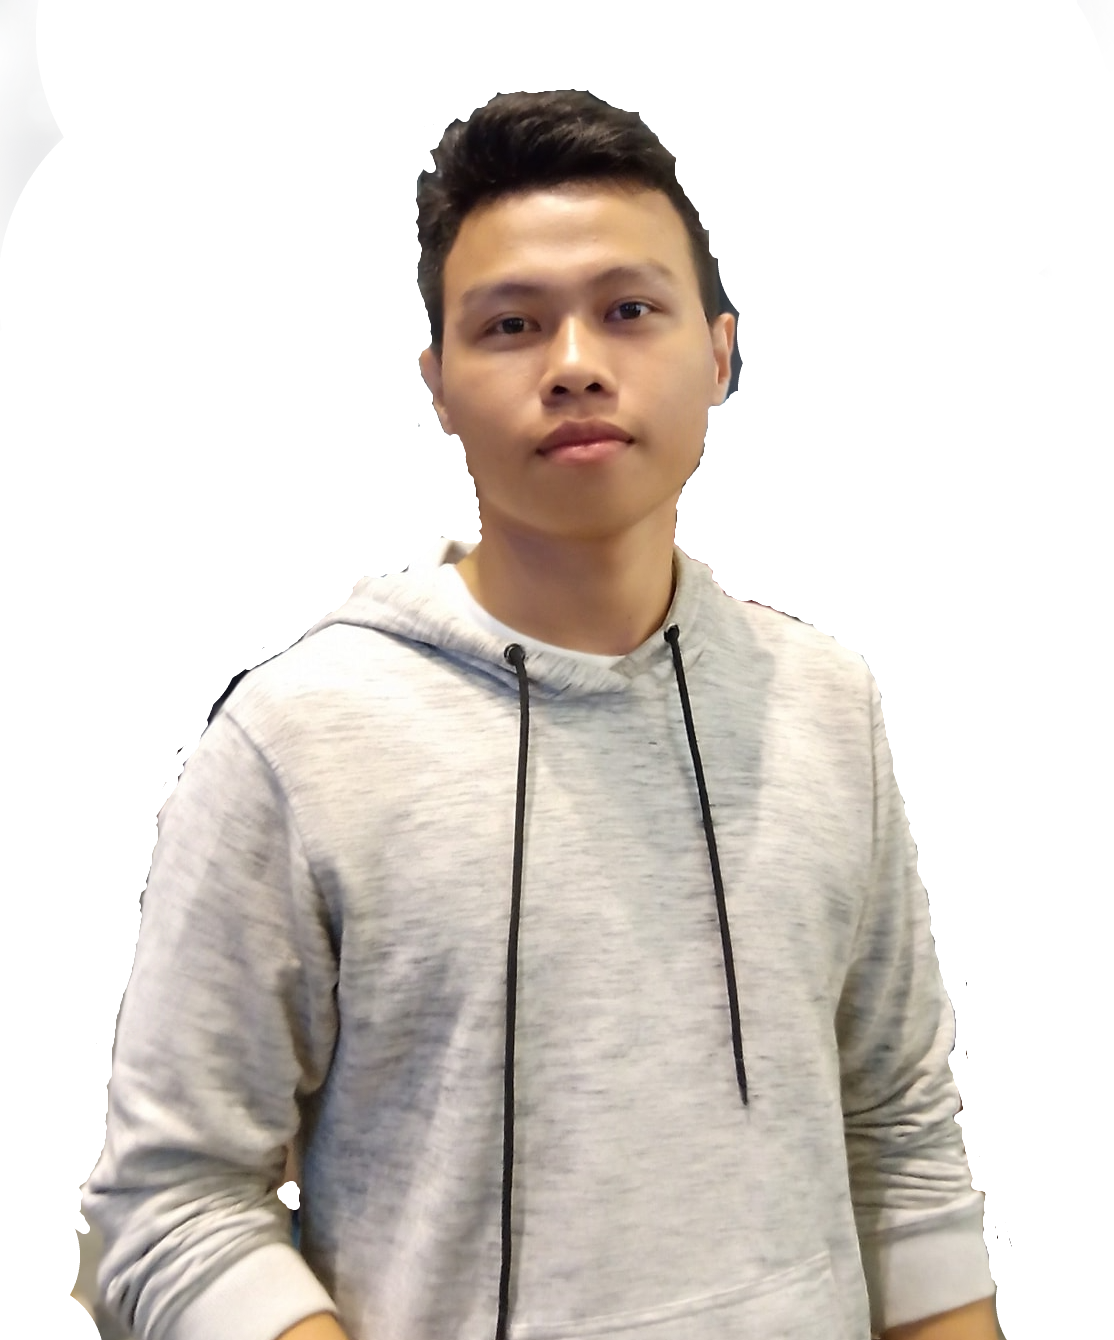
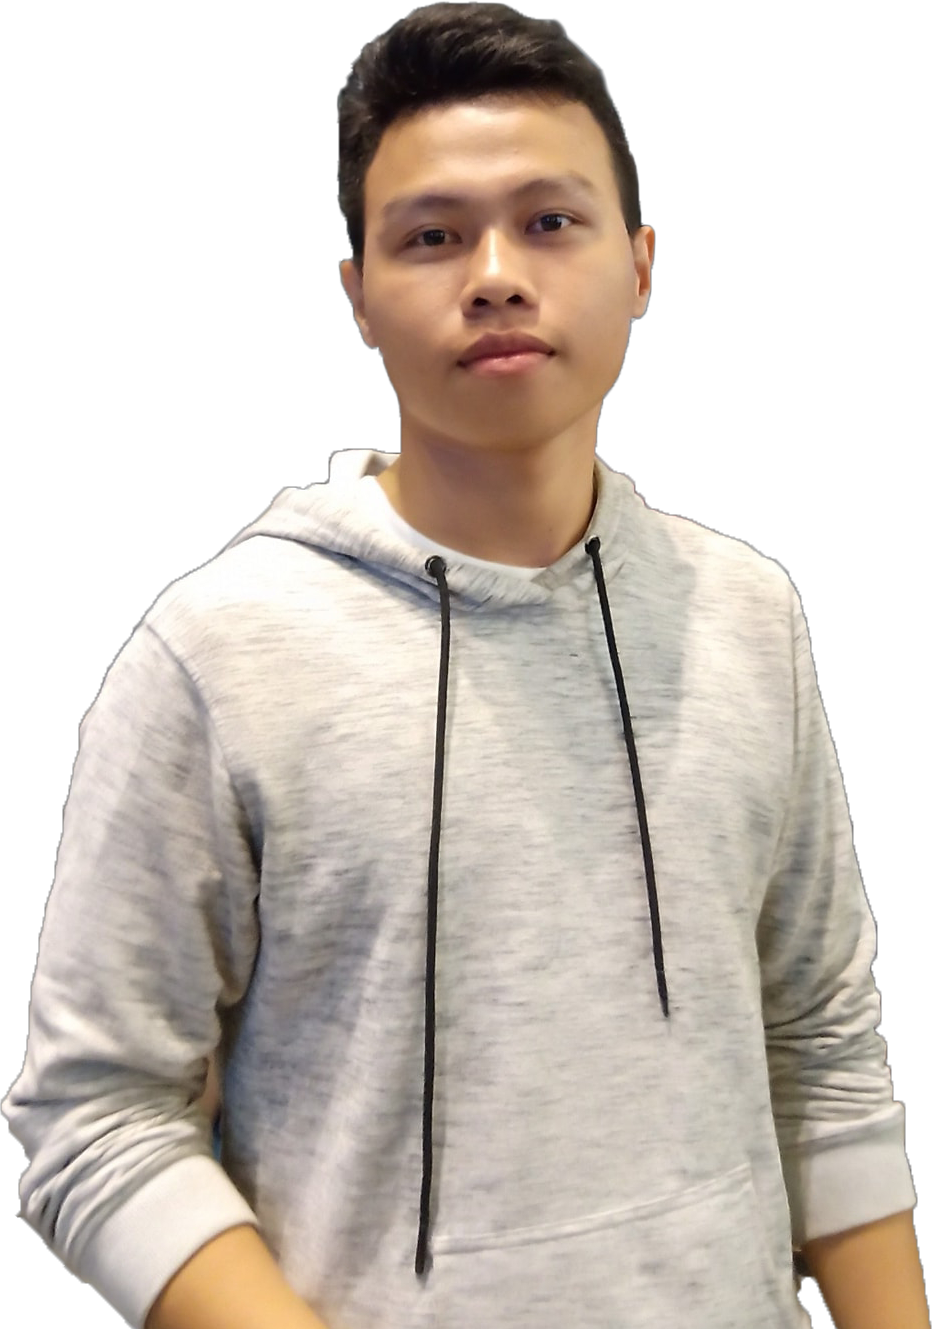
Update image welcome and Readme file.

diff --git a/README.md b/README.md
@@ -3,7 +3,7 @@
 This project was generated with [Angular CLI](https://github.com/angular/angular-cli) version 13.3.3.
 
 ## Development server
-
+Cái này để dành test.
 Run `ng serve` for a dev server. Navigate to `http://localhost:4200/`. The application will automatically reload if you change any of the source files.
 
 ## Code scaffolding
@@ -14,6 +14,11 @@ Run `ng generate component component-name` to generate a new component. You can 
 
 Run `ng build` to build the project. The build artifacts will be stored in the `dist/` directory.
 
+## Build pro for GitHub
+ng build --base-href https://iamlyle.github.io/lecongly/
+
+## To publish the application to GitHub
+ngh -no-silent
 ## Running unit tests
 
 Run `ng test` to execute the unit tests via [Karma](https://karma-runner.github.io).
